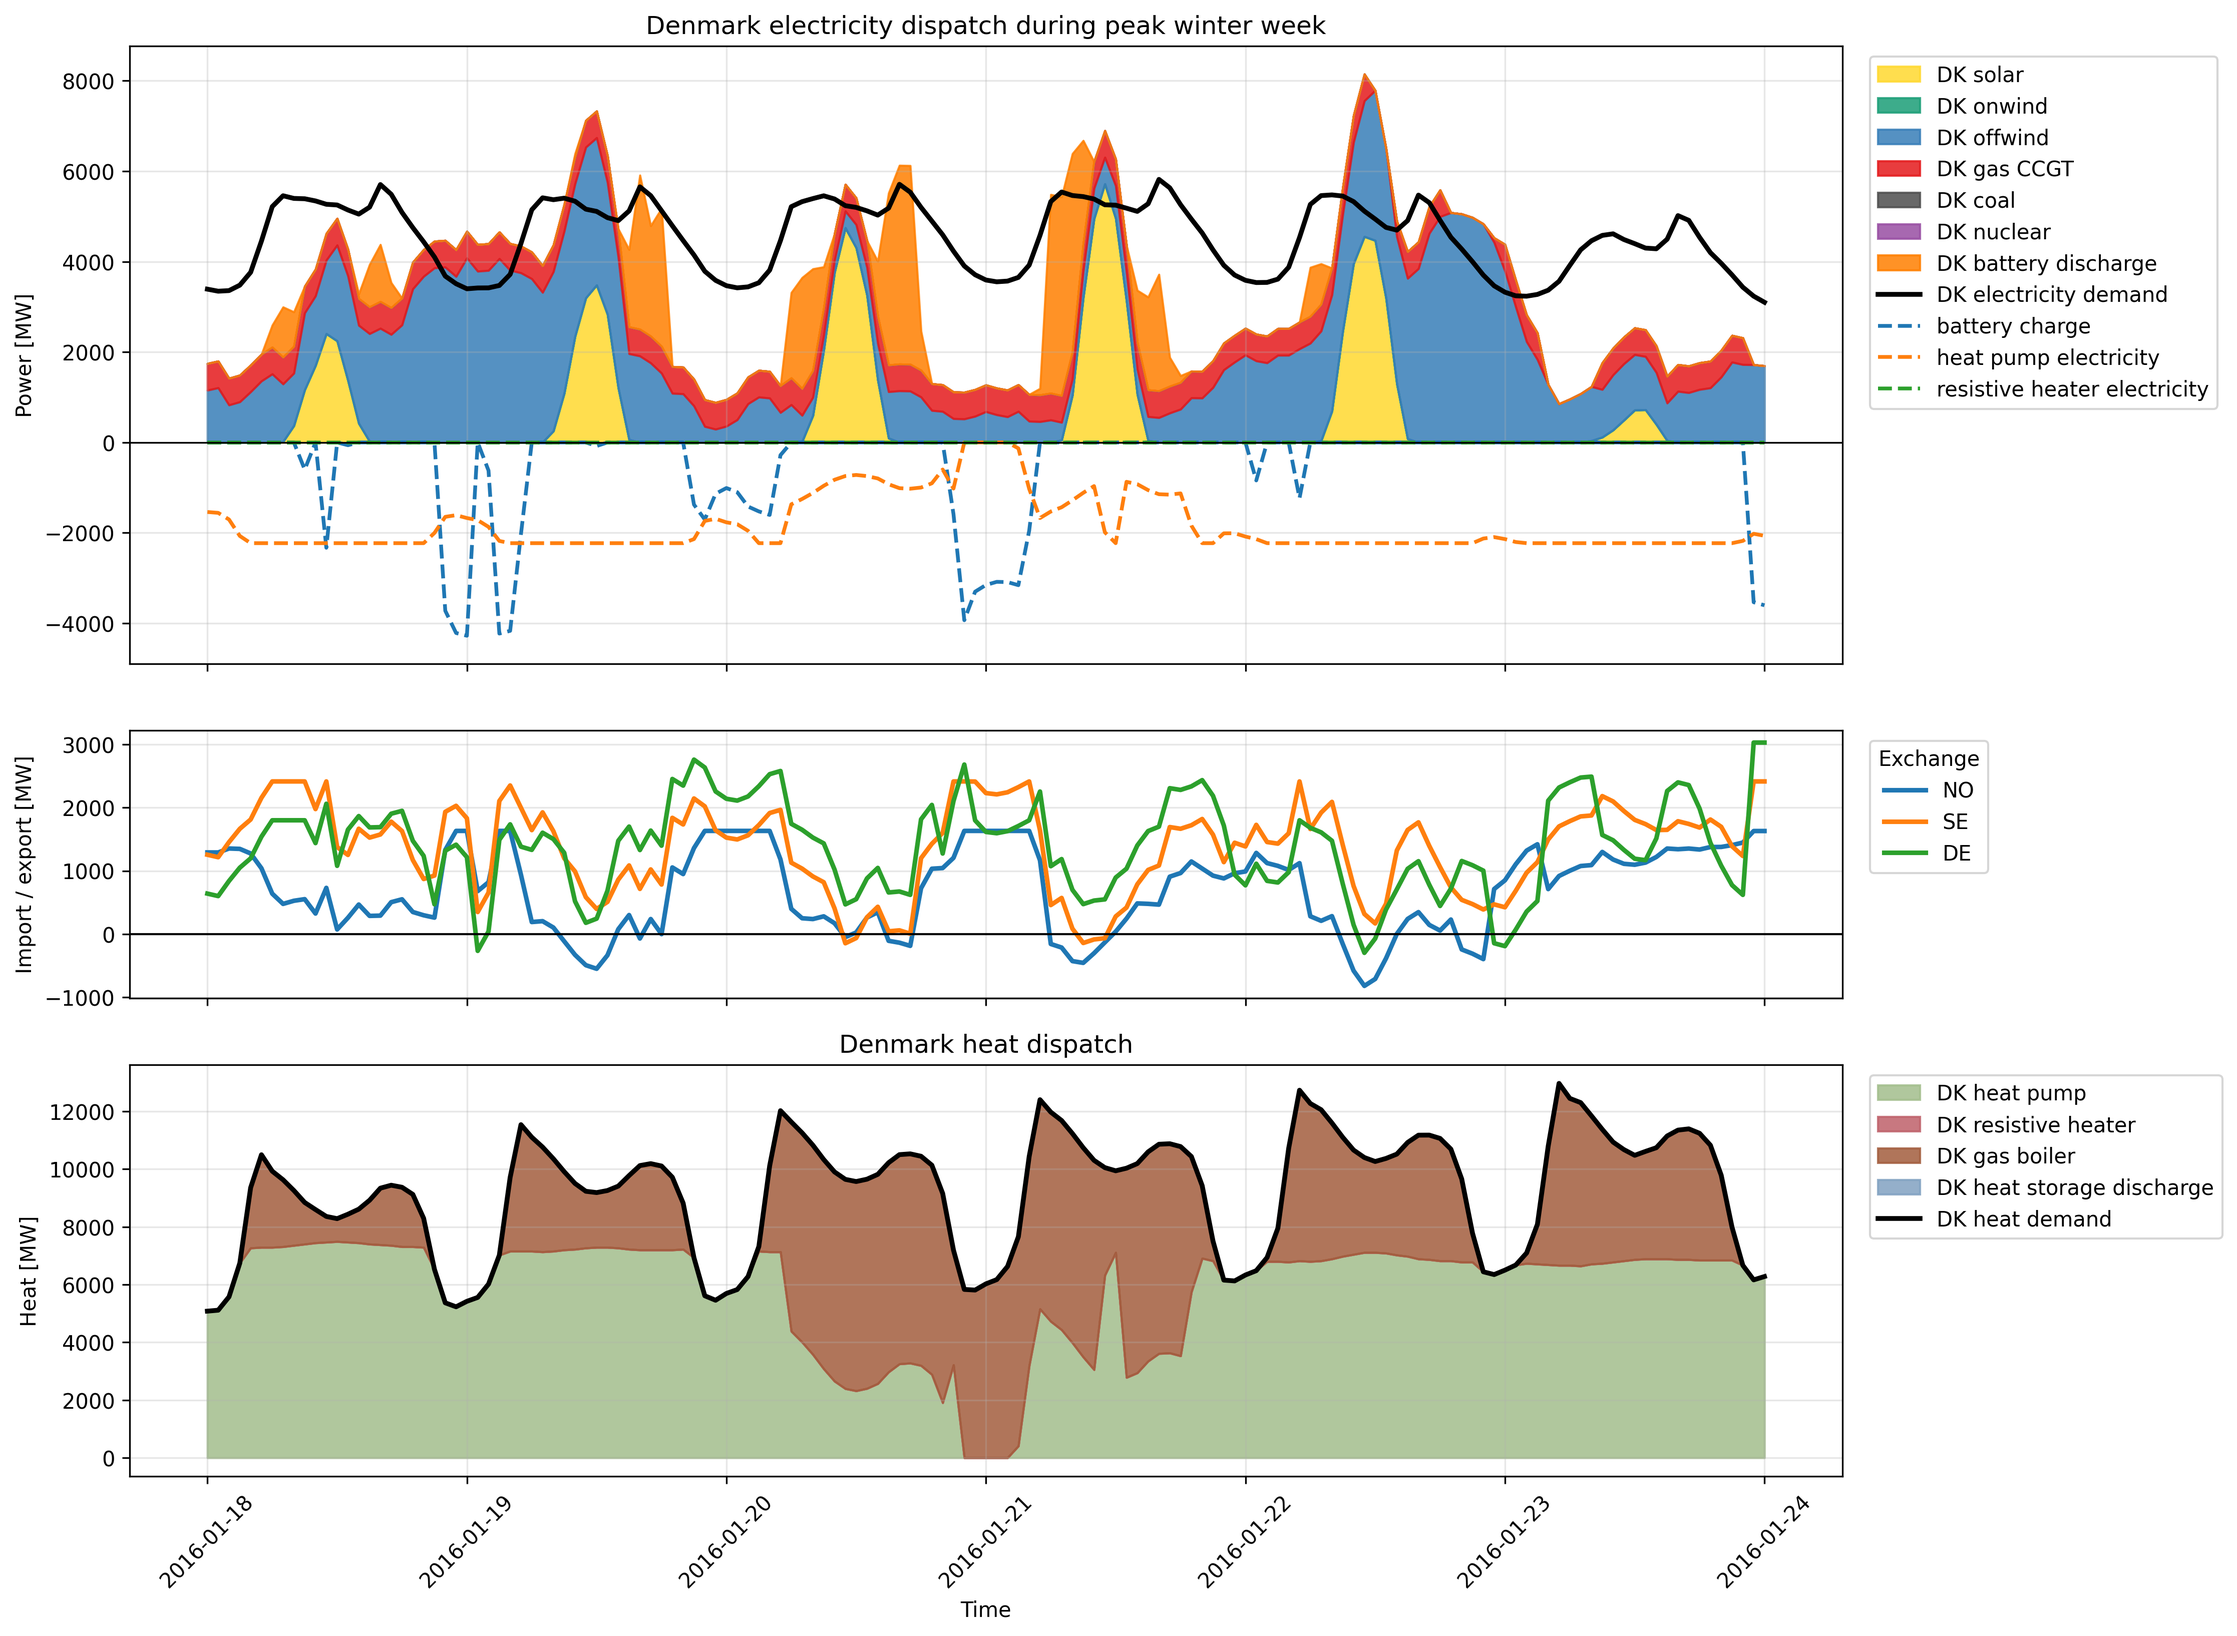
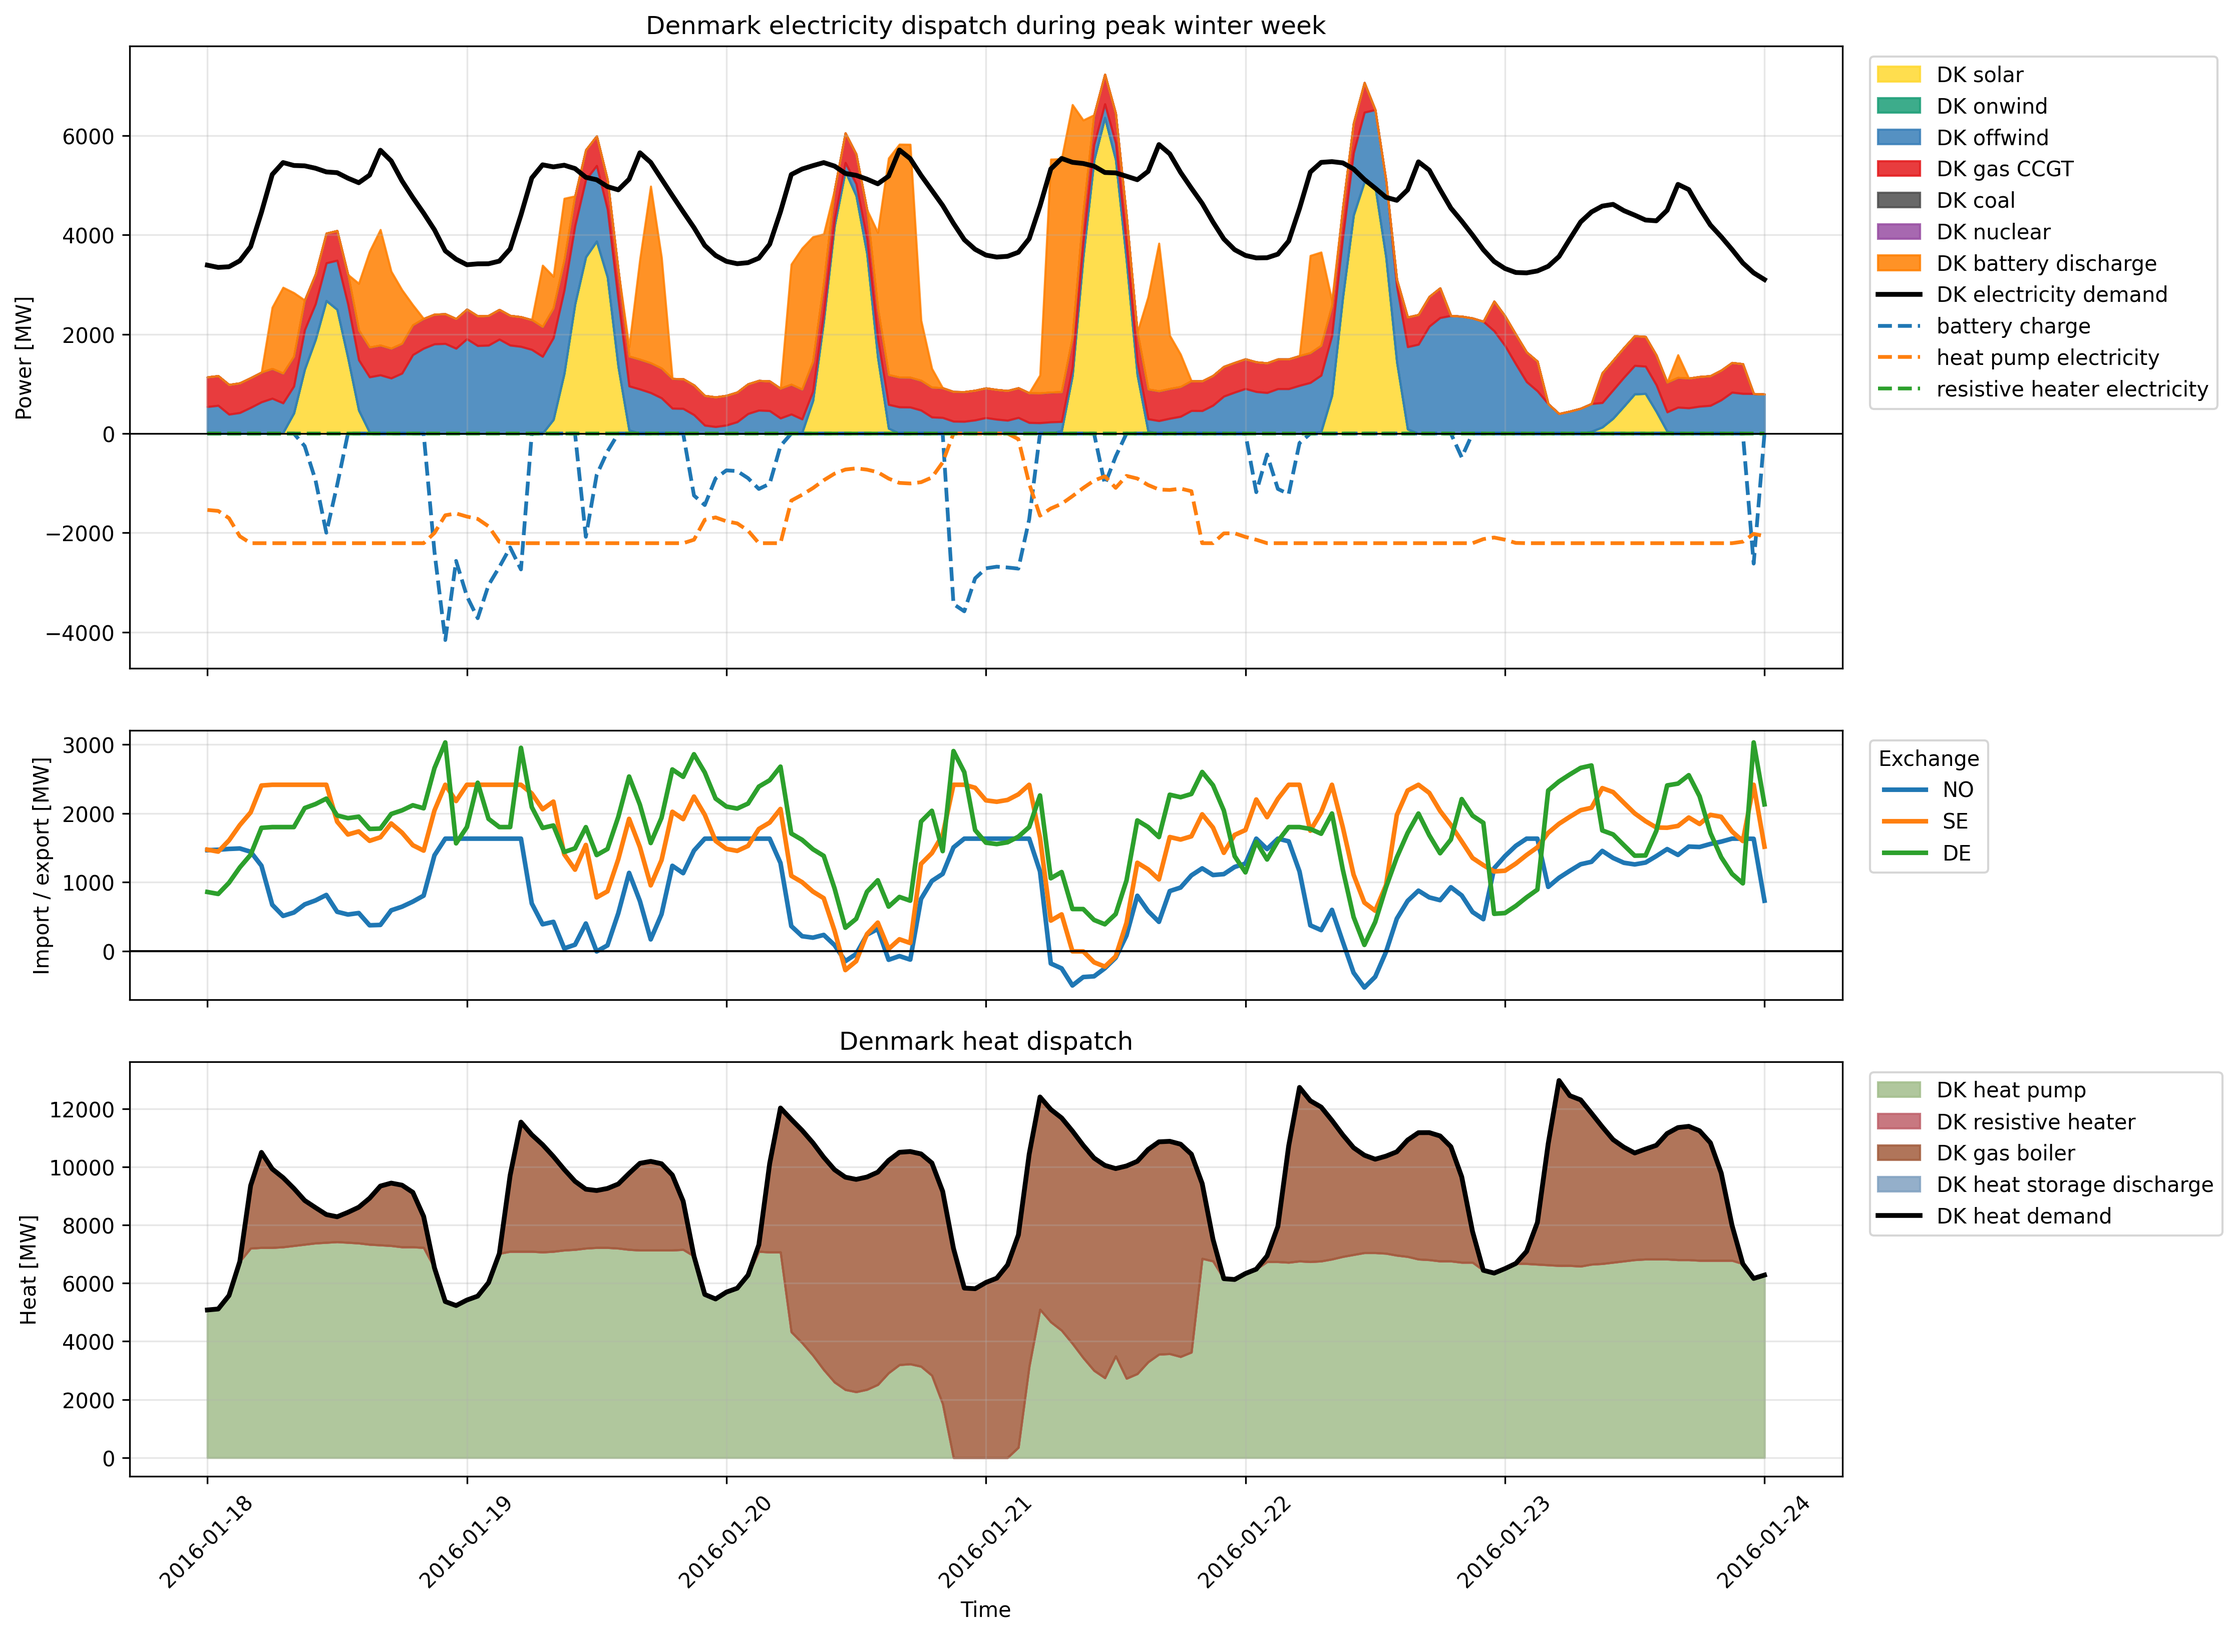
Offshore wind cap added

diff --git a/analysis/analysis_experiment.py b/analysis/analysis_experiment.py
@@ -198,29 +198,29 @@ def add_electricity(
         # -----------------------------
         # Offshore wind
         # -----------------------------
-        #if country_code == "DK":
-         #   n.add(
-         #       "Generator",
-         #       f"{country_code}_offshore_wind",
-         #       bus=country_code,
-         #       carrier="offwind",
-         #       p_nom_extendable=True,
-         #       p_nom_max=2.650,
-         #       p_max_pu=timeseries_data["offshore_wind_cf"],
-         #       capital_cost=cost_data.at["offwind", "fixed"],
-         #       marginal_cost=cost_data.at["offwind", "VOM"],
-         #       )
-        #else:
-        n.add(
-            "Generator",
-            f"{country_code}_offshore_wind",
-            bus=country_code,
-            carrier="offwind",
-            p_nom_extendable=True,
-            p_max_pu=timeseries_data["offshore_wind_cf"],
-            capital_cost=cost_data.at["offwind", "fixed"],
-            marginal_cost=cost_data.at["offwind", "VOM"],
-        )
+        if country_code == "DK":
+            n.add(
+                "Generator",
+                f"{country_code}_offshore_wind",
+                bus=country_code,
+                carrier="offwind",
+                p_nom_extendable=True,
+                p_nom_max=2650,
+                p_max_pu=timeseries_data["offshore_wind_cf"],
+                capital_cost=cost_data.at["offwind", "fixed"],
+                marginal_cost=cost_data.at["offwind", "VOM"],
+                )
+        else:
+            n.add(
+                "Generator",
+                f"{country_code}_offshore_wind",
+                bus=country_code,
+                carrier="offwind",
+                p_nom_extendable=True,
+                p_max_pu=timeseries_data["offshore_wind_cf"],
+                capital_cost=cost_data.at["offwind", "fixed"],
+                marginal_cost=cost_data.at["offwind", "VOM"],
+            )
 
         # -----------------------------
         # CCGT
@@ -607,7 +607,6 @@ def add_gas(
         if with_h2_network:
             h2_tech_name = "H2 (g) pipeline"
 
-            h2_capital_cost = cost_data.at[h2_tech_name, "fixed"] * length_km
             h2_electricity_input = cost_data.at[h2_tech_name, "electricity-input"]
 
             h2_efficiency = 1.0 - h2_electricity_input * length_km / 1000.0
@@ -1127,6 +1126,21 @@ def print_model_summary(n: pypsa.Network) -> None:
 # PLOTS
 # =========================================================
 
+def get_carrier_colors(n: pypsa.Network, columns: pd.Index) -> list[str]:
+    """
+    Return colors for carriers based on n.carriers['color'].
+    """
+    fallback_color = "#999999"
+    colors = []
+
+    for carrier in columns:
+        if carrier in n.carriers.index and pd.notna(n.carriers.at[carrier, "color"]):
+            colors.append(n.carriers.at[carrier, "color"])
+        else:
+            colors.append(fallback_color)
+
+    return colors
+
 def plot_denmark_dispatch_strategy(n, folder):
     """
     Plot Denmark dispatch during the winter week with highest average
@@ -1425,6 +1439,221 @@ def plot_denmark_dispatch_strategy(n, folder):
     plt.close()
 
 
+def plot_annual_mix_from_balance(n: pypsa.Network, output_dir: Path) -> None:
+    """
+    Plot annual Danish electricity mix only.
+    """
+
+    output_dir = Path(output_dir)
+    output_dir.mkdir(parents=True, exist_ok=True)
+
+    annual_mix = {}
+
+    # -----------------------------
+    # 1. DK generators
+    # -----------------------------
+    dk_generators = n.generators[n.generators.bus == "DK"]
+
+    for gen in dk_generators.index:
+        carrier = n.generators.at[gen, "carrier"]
+
+        generation = n.generators_t.p[gen].clip(lower=0).sum()
+
+        annual_mix[carrier] = annual_mix.get(carrier, 0.0) + generation
+
+    # -----------------------------
+    # 2. Links producing electricity into DK
+    # -----------------------------
+    dk_electricity_links = n.links[n.links.bus1 == "DK"]
+
+    for link in dk_electricity_links.index:
+        carrier = n.links.at[link, "carrier"]
+
+        output_to_dk = (-n.links_t.p1[link]).clip(lower=0).sum()
+
+        annual_mix[carrier] = annual_mix.get(carrier, 0.0) + output_to_dk
+
+    annual_mix = pd.Series(annual_mix)
+
+    # -----------------------------
+    # Remove very small numerical values
+    # -----------------------------
+    tolerance = 1e-3
+    annual_mix = annual_mix[annual_mix > tolerance]
+
+    # -----------------------------
+    # Optional: manually exclude onshore wind
+    # -----------------------------
+    annual_mix = annual_mix.drop("onwind", errors="ignore")
+
+    # -----------------------------
+    # Get colors BEFORE renaming
+    # -----------------------------
+    colors = get_carrier_colors(n, annual_mix.index)
+
+    # -----------------------------
+    # Nice labels for legend
+    # -----------------------------
+    label_map = {
+        "solar": "solar PV",
+        "onwind": "onshore wind",
+        "offwind": "offshore wind",
+        "gas CCGT": "gas CCGT",
+        "CCGT": "gas CCGT",
+        "coal": "coal",
+        "nuclear": "nuclear",
+        "battery discharger": "battery discharge",
+        "H2 turbine": "H2 turbine",
+        "H2 fuel cell": "H2 fuel cell",
+    }
+
+    labels = [label_map.get(carrier, carrier) for carrier in annual_mix.index]
+
+    fig, ax = plt.subplots(figsize=(6, 5))
+
+    wedges, texts, autotexts = ax.pie(
+        annual_mix,
+        colors=colors,
+        labels=None,
+        autopct="%1.1f%%",
+        startangle=90,
+        wedgeprops={"edgecolor": "white"},
+        textprops={"color": "black"},
+    )
+
+    ax.legend(
+        wedges,
+        labels,
+        title="Technology",
+        loc="lower right",
+        bbox_to_anchor=(1, 0),
+        fontsize=10,
+    )
+
+    fig.tight_layout()
+    fig.savefig(output_dir / "annual_danish_electricity_mix.png", dpi=300)
+    plt.close(fig)
+
+
+def plot_capacity_factors_over_year(n: pypsa.Network, output_dir: Path) -> None:
+    """
+    Plot monthly capacity factors for selected Danish electricity technologies.
+    Includes both generators and gas/H2/battery links producing electricity into DK.
+    """
+
+    output_dir = Path(output_dir)
+    output_dir.mkdir(parents=True, exist_ok=True)
+
+    weights = n.snapshot_weightings.generators
+
+    monthly_cf = {}
+
+    # -----------------------------
+    # 1. Danish generators
+    # -----------------------------
+    generator_carriers = ["solar", "offwind", "coal", "nuclear", "gas CCGT"]
+
+    gens = n.generators.index[
+        (n.generators.bus == "DK")
+        & (n.generators.carrier.isin(generator_carriers))
+    ]
+
+    for gen in gens:
+        carrier = n.generators.at[gen, "carrier"]
+        capacity = n.generators.at[gen, "p_nom_opt"]
+
+        if capacity <= 1e-6:
+            continue
+
+        generation = n.generators_t.p[gen].clip(lower=0)
+        monthly_generation = generation.multiply(weights, axis=0).resample("ME").sum()
+        monthly_hours = weights.resample("ME").sum()
+
+        cf = monthly_generation / (capacity * monthly_hours)
+        monthly_cf[carrier] = cf
+
+    # -----------------------------
+    # 2. Danish electricity-producing links
+    # -----------------------------
+    link_map = {
+        "DK_CCGT": "gas CCGT",
+        "DK_H2_turbine": "H2 turbine",
+        "DK_H2_fuel_cell": "H2 fuel cell",
+        "DK_battery_discharger": "battery discharge",
+    }
+
+    for link, label in link_map.items():
+        if link not in n.links.index:
+            continue
+
+        capacity = n.links.at[link, "p_nom_opt"]
+
+        if capacity <= 1e-6:
+            continue
+
+        # p1 is negative when output is delivered to DK
+        output = (-n.links_t.p1[link]).clip(lower=0)
+
+        monthly_output = output.multiply(weights, axis=0).resample("ME").sum()
+        monthly_hours = weights.resample("ME").sum()
+
+        cf = monthly_output / (capacity * monthly_hours)
+        monthly_cf[label] = cf
+
+    cf = pd.DataFrame(monthly_cf)
+
+    cf = cf.loc[:, cf.max() > 1e-6]
+
+    color_keys = {
+        "solar": "solar",
+        "offwind": "offwind",
+        "coal": "coal",
+        "nuclear": "nuclear",
+        "gas CCGT": "CCGT",
+        "H2 turbine": "H2 turbine",
+        "H2 fuel cell": "H2 fuel cell",
+        "battery discharge": "battery discharger",
+    }
+
+    label_map = {
+        "solar": "solar PV",
+        "offwind": "offshore wind",
+        "coal": "coal",
+        "nuclear": "nuclear",
+        "gas CCGT": "gas CCGT",
+        "H2 turbine": "H2 turbine",
+        "H2 fuel cell": "H2 fuel cell",
+        "battery discharge": "battery discharge",
+    }
+
+    fig, ax = plt.subplots(figsize=(8, 4))
+
+    for column in cf.columns:
+        carrier_key = color_keys.get(column, column)
+
+        if carrier_key in n.carriers.index:
+            color = n.carriers.at[carrier_key, "color"]
+        else:
+            color = "#999999"
+
+        ax.plot(
+            cf.index,
+            cf[column],
+            label=label_map.get(column, column),
+            color=color,
+            linewidth=2,
+        )
+
+    ax.set_ylabel("Capacity factor [-]")
+    ax.set_xlabel("")
+    ax.grid(axis="y", alpha=0.3)
+    ax.legend(loc="center left", bbox_to_anchor=(1, 0.5), title="Technology")
+
+    fig.tight_layout()
+    fig.savefig(output_dir / "capacity_factors_over_year_dk.png", dpi=300)
+    plt.close(fig)
+
+
 # =========================================================
 # RUN MODEL
 # =========================================================
@@ -1484,6 +1713,15 @@ def main() -> None:
     plot_denmark_dispatch_strategy(
         n=n,
         folder=Path("results/experiments")
+    )
+    plot_annual_mix_from_balance(
+        n=n,
+        output_dir=Path("results/experiments"),
+    )
+
+    plot_capacity_factors_over_year(
+        n=n,
+        output_dir=Path("results/experiments"),
     )
 
 if __name__ == "__main__":
